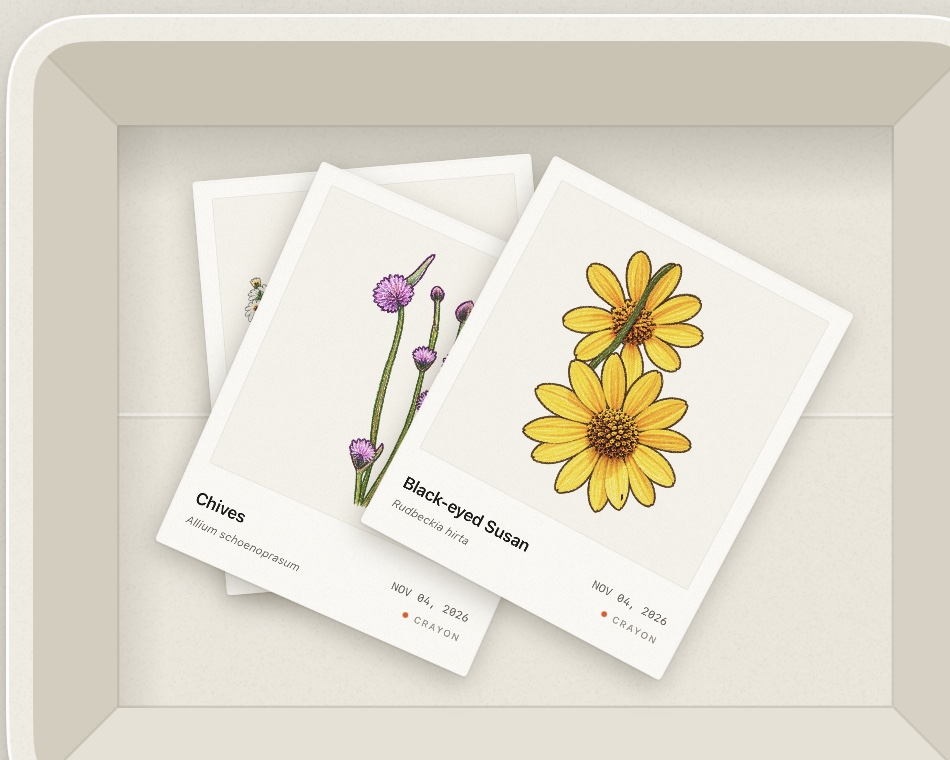
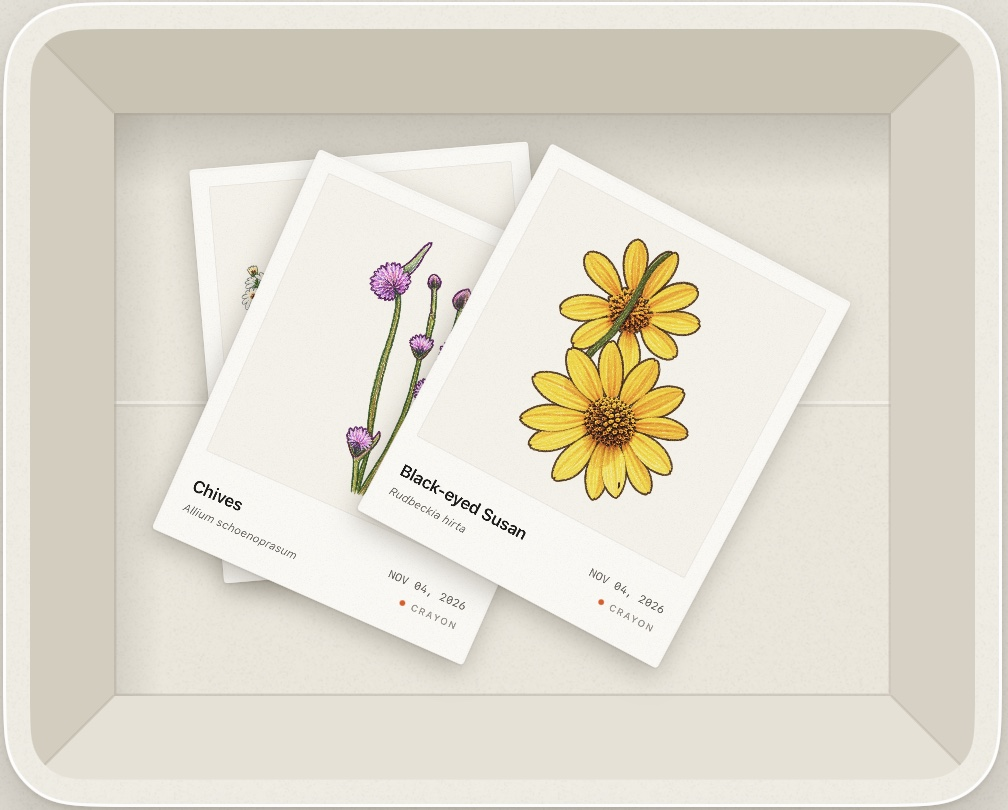
Preserve complete print and box edges in artwork crops

diff --git a/bloomprint/index.html b/bloomprint/index.html
@@ -13,10 +13,10 @@
 <main id="main">
 <section class="hero" aria-labelledby="hero-title">
 <div class="hero-copy"><h1 id="hero-title">Keep a little<br>of your day<span class="orange">.</span></h1><p class="intro">A flower on your walk.<br>A cup of tea. A moment worth keeping.</p><p>Turn the things you love into illustrated prints. Made in crayon, watercolor or pen, and tucked into a box for each day.</p><a class="button" href="#inside">Take a closer look <svg viewBox="0 0 24 24" width="20" height="20" fill="none" stroke="currentColor" stroke-width="1.8" aria-hidden="true"><path d="M7 17 17 7M7 7h10v10"/></svg></a><p class="platform">Made for iPhone.</p></div>
-<figure class="hero-art"><div class="print-stage"><img class="hero-print" src="assets/flower-print.jpg" width="852" height="1038" alt="A Bloomprint crayon illustration of two golden Black-eyed Susan flowers, on a cream print with the plant’s name."><span class="paper-note">A little something to keep.</span></div></figure>
+<figure class="hero-art"><div class="print-stage"><img class="hero-print" src="assets/flower-print.jpg" width="902" height="1100" alt="A Bloomprint crayon illustration of two golden Black-eyed Susan flowers, on a cream print with the plant’s name."><span class="paper-note">A little something to keep.</span></div></figure>
 </section>
 <section id="inside" class="styles" aria-labelledby="styles-title"><div><h2 id="styles-title">One moment.<br>Your kind of mark.</h2><p>Turn the dial and choose how it feels.</p></div><ul class="style-list"><li><span class="style-dot crayon"></span><div><h3>Crayon</h3><p>Color you can almost feel.</p></div></li><li><span class="style-dot water"></span><div><h3>Watercolor</h3><p>A softer way to remember.</p></div></li><li><span class="style-dot pen"></span><div><h3>Pen</h3><p>The little details, in ink.</p></div></li></ul></section>
-<section class="box-section" aria-labelledby="box-title"><figure class="box-art"><img src="assets/daily-box.jpg" width="950" height="760" loading="lazy" alt="Bloomprint’s cream daily box, with illustrated flower prints resting inside its raised walls."></figure><div class="box-copy"><h2 id="box-title">Little prints.<br>A place to belong.</h2><p>Keep them in daily boxes, browse your photo wall, or save them to Photos.</p><p>Something to look back on.<br>Something to share.</p><a class="text-link" href="support.html">Explore Bloomprint support <span aria-hidden="true">↗</span></a></div></section>
+<section class="box-section" aria-labelledby="box-title"><figure class="box-art"><img src="assets/daily-box.jpg" width="1008" height="810" loading="lazy" alt="Bloomprint’s cream daily box, with illustrated flower prints resting inside its raised walls."></figure><div class="box-copy"><h2 id="box-title">Little prints.<br>A place to belong.</h2><p>Keep them in daily boxes, browse your photo wall, or save them to Photos.</p><p>Something to look back on.<br>Something to share.</p><a class="text-link" href="support.html">Explore Bloomprint support <span aria-hidden="true">↗</span></a></div></section>
 <section class="privacy-note" aria-labelledby="privacy-title"><div><h2 id="privacy-title">A little clarity, too.</h2><p>Bloomprint uses an online AI service to paint each print. See our privacy policy for how photos are processed.</p></div><a class="button light" href="privacy.html">Read the privacy policy <span aria-hidden="true">↗</span></a></section>
 </main>
 <footer class="site-footer"><a class="brand" href="index.html"><img src="assets/app-icon.png" width="36" height="36" alt=""><span>Bloomprint</span></a><p>Flowers, moments, little prints.</p><div><a href="mailto:saberzou@gmail.com">Say hello</a><a href="privacy.html">Privacy</a><a href="support.html">Support</a></div><small>© 2026 Saber Zou</small></footer>
